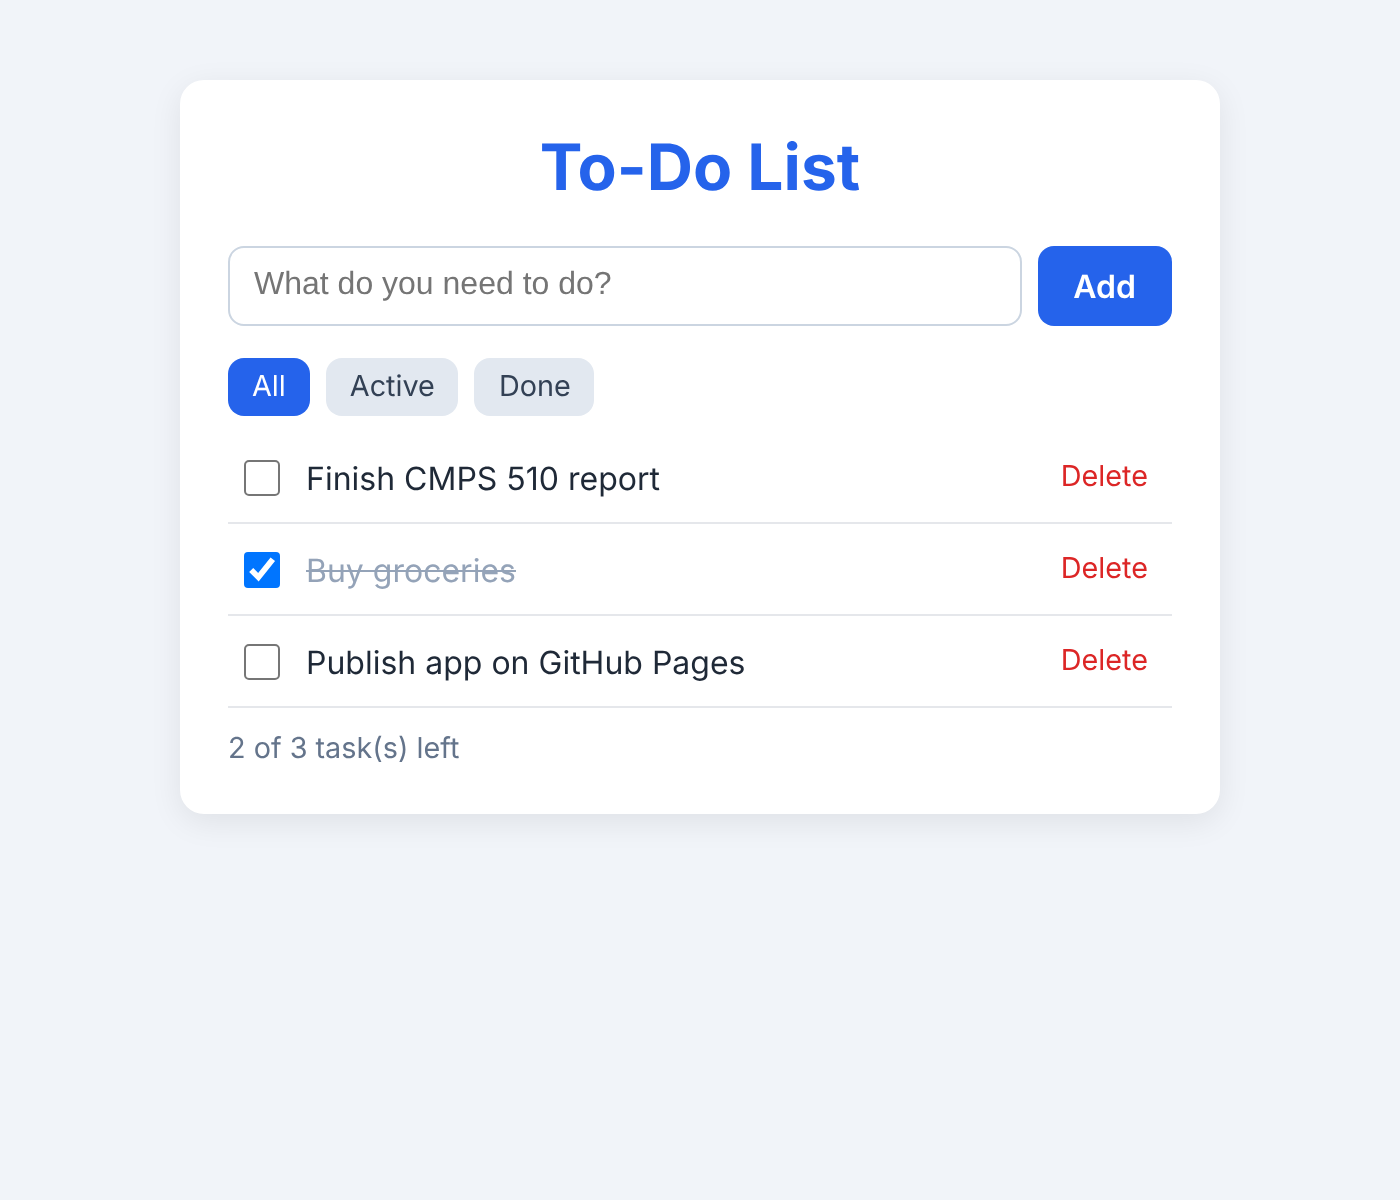
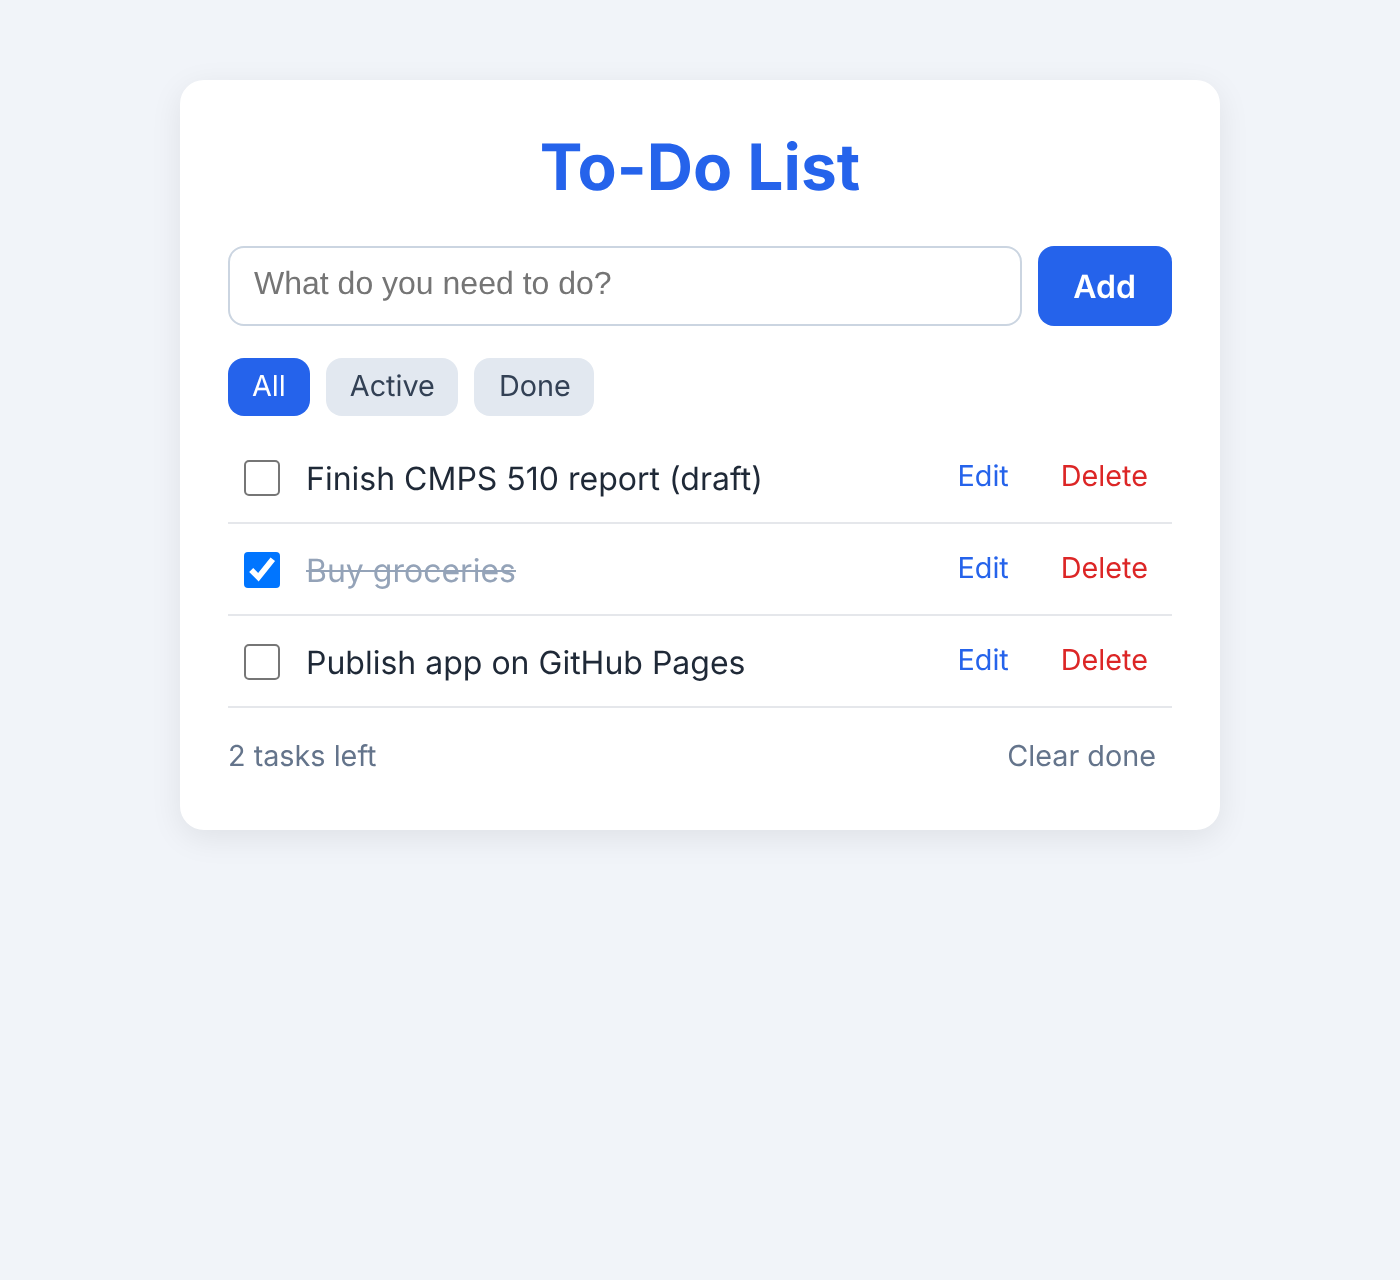
Improve To-Do List: edit tasks, clear done, safer storage, phone layout
Claude-Session: https://claude.ai/code/session_01MTfZLR5FmggTJN34CFxWT6

diff --git a/script.js b/script.js
@@ -1,4 +1,4 @@
-// To-Do List - plain JavaScript, data saved in localStorage
+// To-Do List - plain JavaScript, tasks saved in the browser's localStorage
 const STORAGE_KEY = "todo-list-tasks";
 
 const form = document.getElementById("task-form");
@@ -6,28 +6,33 @@ const input = document.getElementById("task-input");
 const list = document.getElementById("task-list");
 const emptyMessage = document.getElementById("empty-message");
 const counter = document.getElementById("counter");
+const clearDoneBtn = document.getElementById("clear-done");
 const filterButtons = document.querySelectorAll(".filter");
 
 let tasks = loadTasks();
 let currentFilter = "all";
 
-// ---- Storage ----
+// ---- Storage (wrapped in try/catch: some browsers block localStorage) ----
 function loadTasks() {
   try {
     const saved = JSON.parse(localStorage.getItem(STORAGE_KEY));
     return Array.isArray(saved) ? saved : [];
-  } catch {
+  } catch (err) {
     return [];
   }
 }
 
 function saveTasks() {
-  localStorage.setItem(STORAGE_KEY, JSON.stringify(tasks));
+  try {
+    localStorage.setItem(STORAGE_KEY, JSON.stringify(tasks));
+  } catch (err) {
+    console.warn("Could not save tasks:", err);
+  }
 }
 
 // ---- Actions ----
 function addTask(text) {
-  tasks.push({ id: Date.now(), text: text, done: false });
+  tasks.push({ id: Date.now() + Math.random(), text: text, done: false });
   saveTasks();
   render();
 }
@@ -39,13 +44,51 @@ function toggleTask(id) {
   render();
 }
 
+function editTask(id, newText) {
+  const task = tasks.find((t) => t.id === id);
+  if (task && newText.trim() !== "") task.text = newText.trim();
+  saveTasks();
+  render();
+}
+
 function deleteTask(id) {
   tasks = tasks.filter((t) => t.id !== id);
   saveTasks();
   render();
 }
 
+function clearDone() {
+  tasks = tasks.filter((t) => !t.done);
+  saveTasks();
+  render();
+}
+
 // ---- Display ----
+function startEditing(li, task) {
+  const span = li.querySelector(".task-text");
+  const field = document.createElement("input");
+  field.type = "text";
+  field.className = "edit-input";
+  field.value = task.text;
+  field.maxLength = 200;
+  span.replaceWith(field);
+  field.focus();
+  field.select();
+
+  let finished = false;
+  const finish = (save) => {
+    if (finished) return;
+    finished = true;
+    if (save) editTask(task.id, field.value);
+    else render();
+  };
+  field.addEventListener("keydown", (e) => {
+    if (e.key === "Enter") finish(true);
+    if (e.key === "Escape") finish(false);
+  });
+  field.addEventListener("blur", () => finish(true));
+}
+
 function render() {
   list.innerHTML = "";
 
@@ -68,28 +111,42 @@ function render() {
     const span = document.createElement("span");
     span.className = "task-text";
     span.textContent = task.text; // textContent prevents HTML injection
+    span.title = "Double-click to edit";
+    span.addEventListener("dblclick", () => startEditing(li, task));
 
-    const del = document.createElement("button");
-    del.className = "delete-btn";
-    del.textContent = "Delete";
-    del.addEventListener("click", () => deleteTask(task.id));
+    const editBtn = document.createElement("button");
+    editBtn.type = "button";
+    editBtn.className = "icon-btn edit-btn";
+    editBtn.textContent = "Edit";
+    editBtn.addEventListener("click", () => startEditing(li, task));
 
-    li.append(checkbox, span, del);
+    const delBtn = document.createElement("button");
+    delBtn.type = "button";
+    delBtn.className = "icon-btn delete-btn";
+    delBtn.textContent = "Delete";
+    delBtn.addEventListener("click", () => deleteTask(task.id));
+
+    li.append(checkbox, span, editBtn, delBtn);
     list.appendChild(li);
   });
 
-  emptyMessage.style.display = visible.length === 0 ? "block" : "none";
+  emptyMessage.hidden = visible.length !== 0;
   emptyMessage.textContent = tasks.length === 0 ? "No tasks yet. Add one above!" : "No tasks in this view.";
 
   const left = tasks.filter((t) => !t.done).length;
-  counter.textContent = tasks.length ? `${left} of ${tasks.length} task(s) left` : "";
+  const doneCount = tasks.length - left;
+  counter.textContent = tasks.length ? `${left} task${left === 1 ? "" : "s"} left` : "";
+  clearDoneBtn.hidden = doneCount === 0;
 }
 
 // ---- Events ----
 form.addEventListener("submit", (e) => {
   e.preventDefault();
   const text = input.value.trim();
-  if (text === "") return;
+  if (text === "") {
+    input.focus();
+    return;
+  }
   addTask(text);
   input.value = "";
   input.focus();
@@ -98,9 +155,22 @@ form.addEventListener("submit", (e) => {
 filterButtons.forEach((btn) => {
   btn.addEventListener("click", () => {
     currentFilter = btn.dataset.filter;
-    filterButtons.forEach((b) => b.classList.toggle("active", b === btn));
+    filterButtons.forEach((b) => {
+      b.classList.toggle("active", b === btn);
+      b.setAttribute("aria-pressed", b === btn);
+    });
     render();
   });
+});
+
+clearDoneBtn.addEventListener("click", clearDone);
+
+// Keep several open tabs in sync
+window.addEventListener("storage", (e) => {
+  if (e.key === STORAGE_KEY) {
+    tasks = loadTasks();
+    render();
+  }
 });
 
 render();

diff --git a/index.html b/index.html
@@ -4,6 +4,7 @@
   <meta charset="UTF-8">
   <meta name="viewport" content="width=device-width, initial-scale=1.0">
   <title>To-Do List</title>
+  <meta name="description" content="A simple to-do list: add, finish and delete tasks. Saved in your browser.">
   <link rel="stylesheet" href="style.css">
 </head>
 <body>
@@ -17,15 +18,18 @@
     </form>
 
     <div class="filters" role="group" aria-label="Filter tasks">
-      <button type="button" class="filter active" data-filter="all">All</button>
-      <button type="button" class="filter" data-filter="active">Active</button>
-      <button type="button" class="filter" data-filter="done">Done</button>
+      <button type="button" class="filter active" data-filter="all" aria-pressed="true">All</button>
+      <button type="button" class="filter" data-filter="active" aria-pressed="false">Active</button>
+      <button type="button" class="filter" data-filter="done" aria-pressed="false">Done</button>
     </div>
 
     <ul id="task-list" class="task-list"></ul>
 
     <p id="empty-message" class="empty">No tasks yet. Add one above!</p>
-    <p id="counter" class="counter"></p>
+    <div class="footer">
+      <p id="counter" class="counter"></p>
+      <button type="button" id="clear-done" class="clear-btn" hidden>Clear done</button>
+    </div>
   </main>
 
   <script src="script.js"></script>

diff --git a/style.css b/style.css
@@ -89,3 +89,44 @@ button {
   overflow: hidden;
   clip: rect(0 0 0 0);
 }
+
+[hidden] { display: none !important; }
+
+.icon-btn {
+  background: transparent;
+  padding: 4px 8px;
+  font-size: 0.9rem;
+}
+.edit-btn { color: #2563eb; }
+.edit-btn:hover { background: #dbeafe; }
+
+.edit-input {
+  flex: 1;
+  min-width: 0;
+  padding: 6px 8px;
+  font: inherit;
+  border: 1px solid #2563eb;
+  border-radius: 6px;
+}
+
+.footer {
+  display: flex;
+  justify-content: space-between;
+  align-items: center;
+  margin-top: 12px;
+}
+.footer .counter { margin: 0; }
+.clear-btn {
+  background: transparent;
+  color: #64748b;
+  font-size: 0.9rem;
+  padding: 4px 8px;
+}
+.clear-btn:hover { color: #dc2626; background: #fee2e2; }
+
+@media (max-width: 480px) {
+  body { padding: 16px; }
+  .app { padding: 16px; }
+  .task { gap: 6px; }
+  .icon-btn { padding: 4px 6px; }
+}

diff --git a/README.md b/README.md
@@ -7,7 +7,8 @@ A simple to-do list web app built with plain HTML, CSS and JavaScript for the CM
 ## Features
 - Add a task
 - Tick a task as done
-- Delete a task
+- Edit a task (Edit button or double-click)
+- Delete a task, or clear all finished tasks at once
 - Tasks stay after the page is refreshed (saved in the browser's `localStorage`)
 - Optional extra: filter tasks by **All / Active / Done**
 
